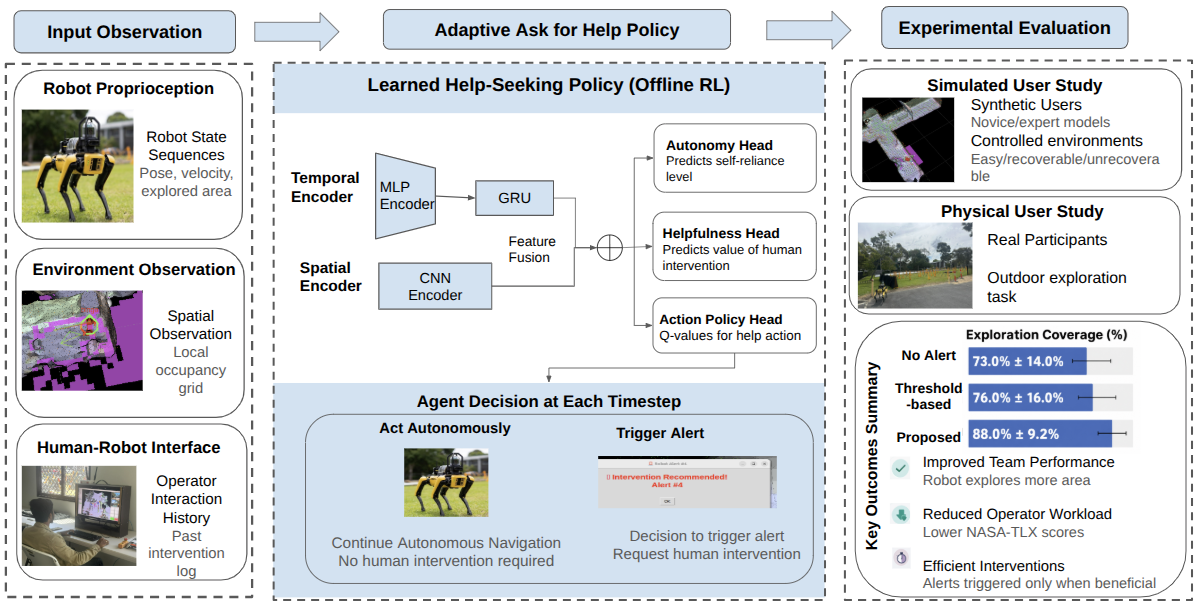
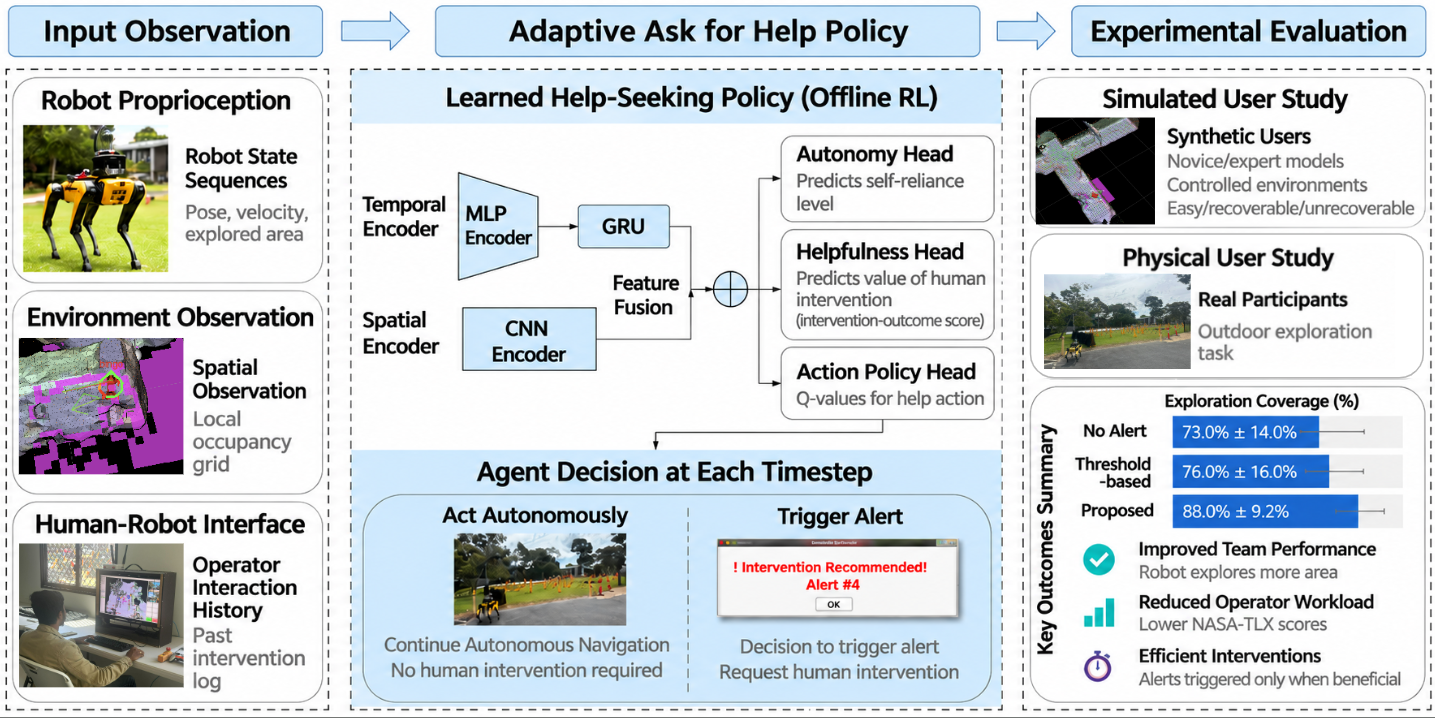
Replace framework overview figure

diff --git a/index.html b/index.html
@@ -3,7 +3,7 @@
 <body><main>
 <header class="paper-header page-width"><h1>Learning When a Robot Should Ask for Help:<br><span>Adaptive Intervention Requests in Human–Robot Teaming</span></h1><p class="authors">Yanran Jiang<sup>1</sup>, Cécile Paris<sup>1</sup>, Dana Kulić<sup>1,2</sup>, and Leimin Tian<sup>1</sup></p><p class="affiliations"><sup>1</sup>CSIRO Technology, Australia<br><sup>2</sup>Monash University, Australia</p><nav class="paper-links"><a href="assets/paper.pdf?v=20261016"><b>PDF</b><small>Paper</small></a><a href="#video"><b>▶</b><small>Video</small></a><a href="#method"><b>+</b><small>Technical details</small></a></nav></header>
 
-<section class="page-width teaser"><img src="assets/revised-framework-overview.png" alt="Overview of the adaptive help-seeking policy and evaluation"><p class="caption">The policy uses recent robot, environment, and interaction observations to decide whether to continue autonomously or request a human waypoint. Evaluation includes simulated intervention models and a physical user study.</p></section>
+<section class="page-width teaser"><img src="assets/revised-framework-overview.png?v=20261021" alt="Overview of the adaptive help-seeking policy and evaluation"><p class="caption">The policy uses recent robot, environment, and interaction observations to decide whether to continue autonomously or request a human waypoint. Evaluation includes simulated intervention models and a physical user study.</p></section>
 
 <section class="page-width" id="overview"><h2>Abstract</h2><p>Robots operating in complex environments occasionally encounter situations where autonomous navigation fails. Timely human intervention can prevent or resolve these failures, but requesting help too frequently increases operator workload and reduces team efficiency. We propose an adaptive alert policy trained with offline reinforcement learning from past intervention outcomes and autonomous progress. The policy learns to request help selectively when an intervention is likely to be beneficial. We compare the learned policy with threshold-based, score-based, and LinUCB baselines in simulation, followed by evaluation against threshold-based and no-alert conditions in a physical user study. Results show improved exploration efficiency, fewer unnecessary alerts, and reduced operator workload without a significant change in trust.</p></section>
 
